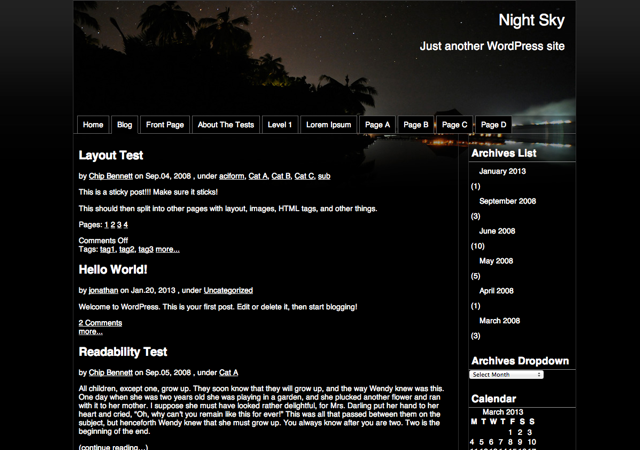
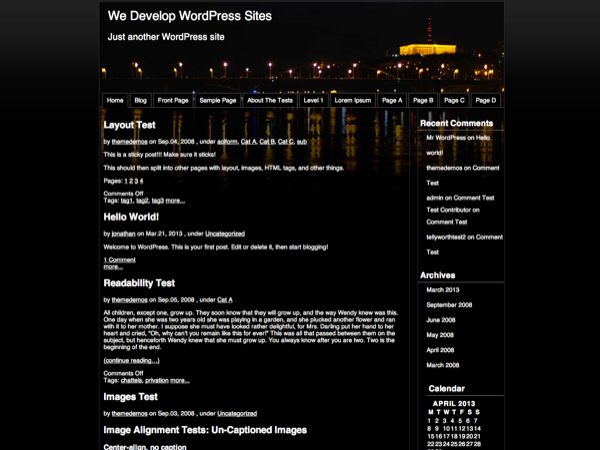
update screenshot, css, footer

Changed region(s): [[0.09, 0.0, 0.9, 1.0], [0.78, 0.0, 0.9, 0.0622], [0.15, 0.1556, 0.18, 0.1867]]

diff --git a/style.css b/style.css
@@ -1,7 +1,7 @@
 /*
 Theme Name: Night Sky
 Theme URI: https://github.com/yramagicman/nightSky/issues 
-Description: 
+Description: A dark themme with a pretty header.
 Version: 1.2
 Author: Jonathan
 Author URI: http://www.perpetuallycreative.com/web

diff --git a/footer.php b/footer.php
@@ -6,14 +6,13 @@
       </div>
       <div id="footRss">
         <a href="<?php bloginfo('rss2_url'); ?>">Entries (RSS)</a> and <a href="<?php bloginfo('comments_rss2_url'); ?>">Comments (RSS)</a>. 
-        <!-- Don't delete this. It credits the dude who took the header photo. -->
-        Image credit to <a href="http://www.flickr.com/photos/nattu/3392855180/"> this guy</a> on flikr
       </div>
       <!-- <?php echo get_num_queries(); ?> queries. <?php timer_stop(1); ?> seconds. --> 
       </p>
     </div>
   </div>
 </div>
+<!-- Header image from http://www.flickr.com/photos/73003003@N07/7004197882/. Lisenced CC-0. It appears in http://www.flickr.com/groups/freeuse/. The Group Info states that no attribution is required. -->
 <?php wp_footer(); ?>
 </body>
 </html>
